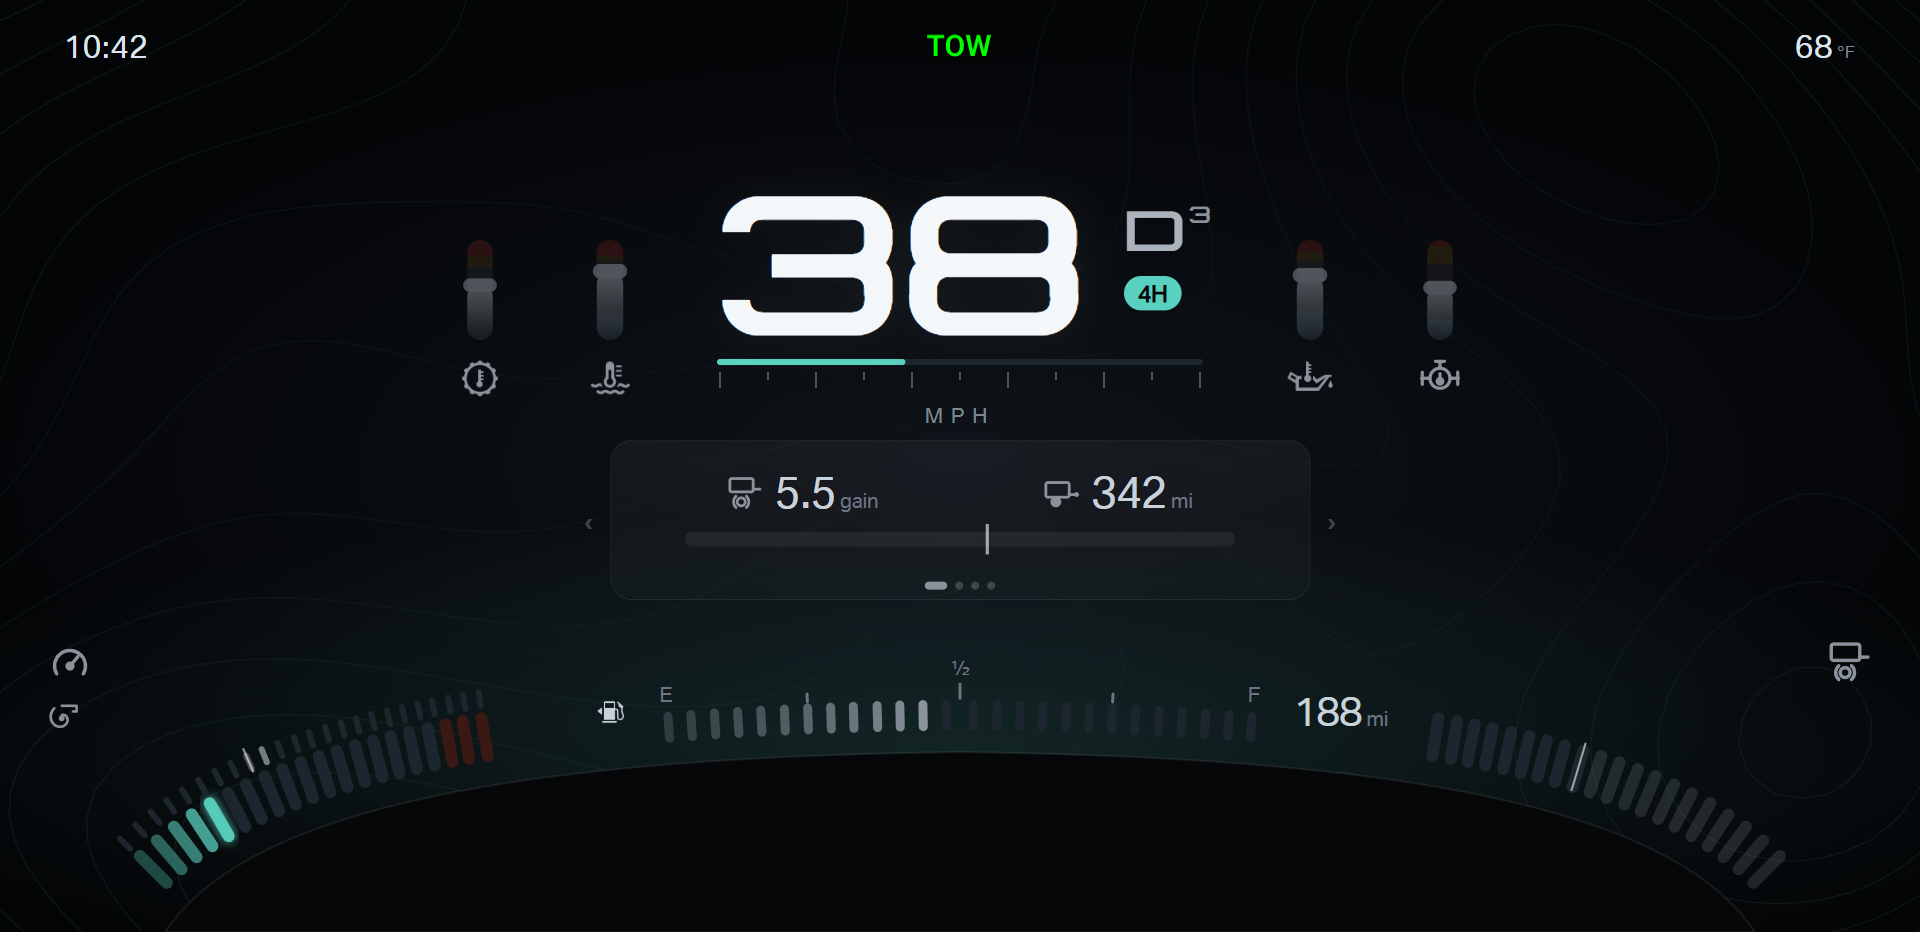
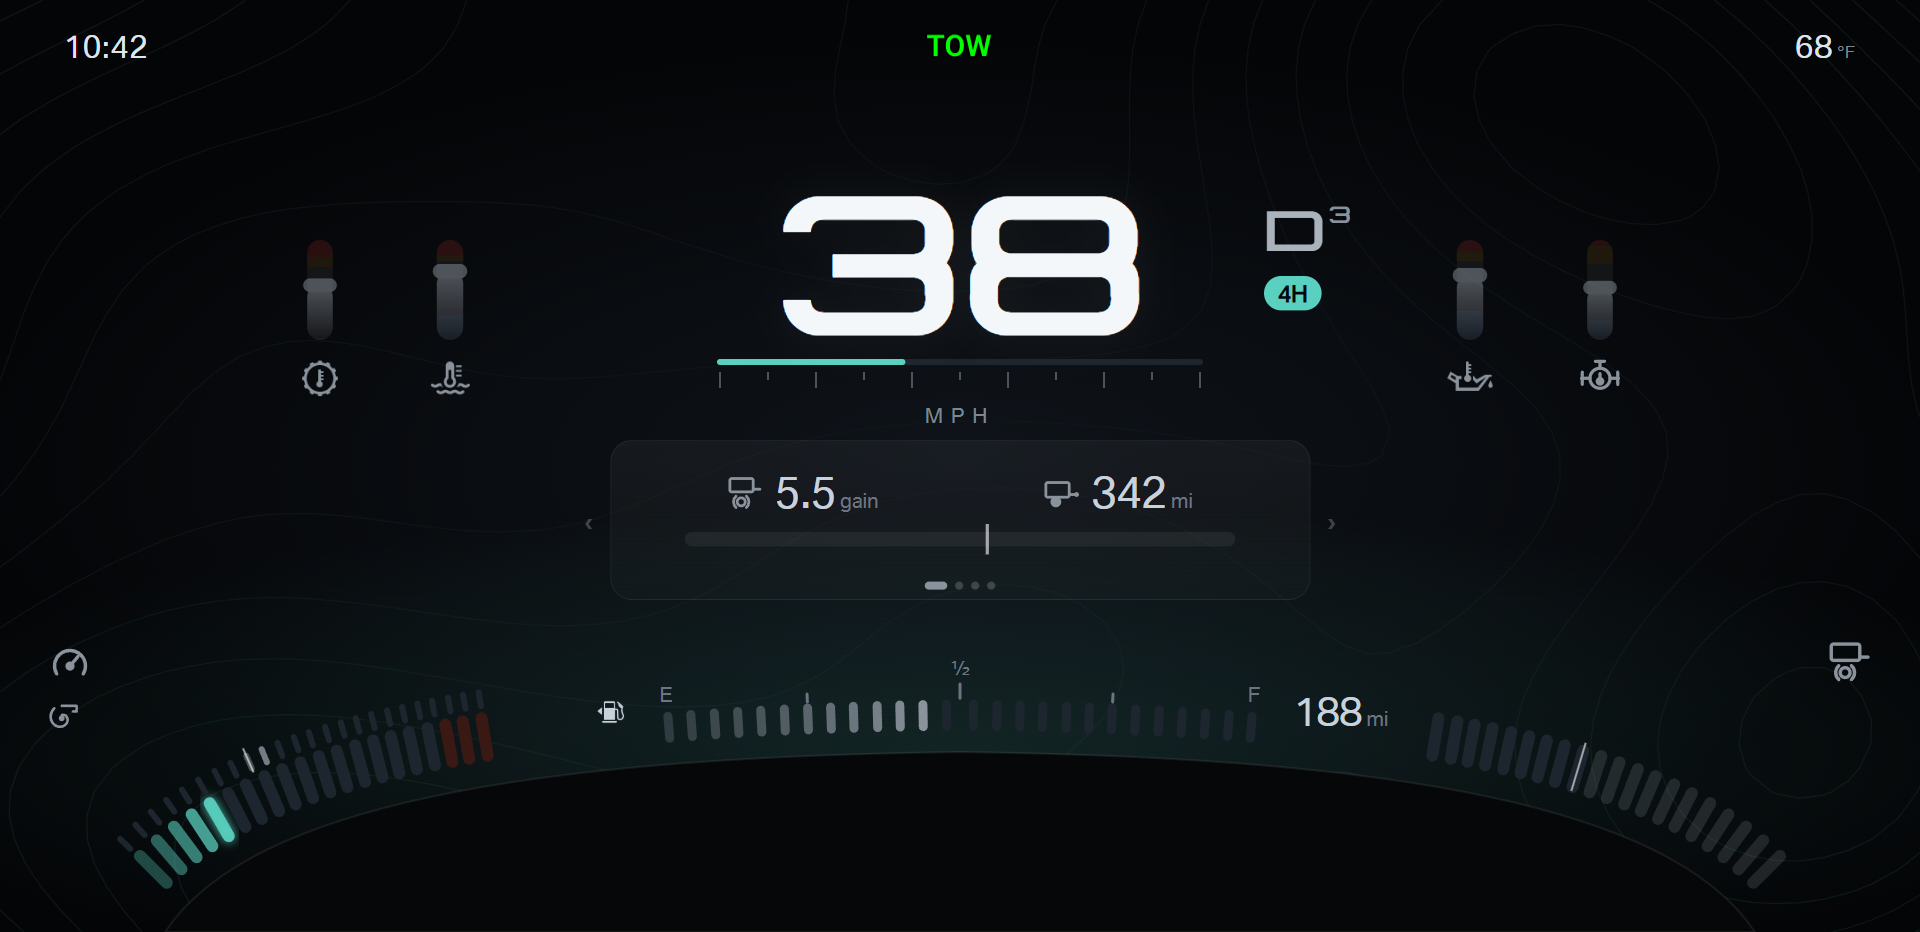
Center the speed digits on the round 19 Towing A layouts
The speed centers on x 960 for one, two, and three digits. The gear and
the temperature bars move outside the three-digit width, and a 104 mph
scene checks the widest readout.

diff --git a/design/round-19/index.html b/design/round-19/index.html
@@ -21,6 +21,7 @@
   <li>Drive mode: the chip under the gear. 2H is a grey outline; 4A, 4H, and 4L fill. The rear locker adds an amber chip with a padlock. Field: getGearAwd() (mFord4wd); rear locker: alarmTable[76], pending verification on the truck.</li>
   <li>Cruise: the stock readout at top center, above the speed. The cruise symbol and the set speed only (no SET, ACC, or MPH text); the limiter keeps the LIM tag.
     The set speed also shows as a mark on the speed scale: green for cruise and adaptive cruise, white for the limiter. An alert banner covers the readout; the mark stays.</li>
+  <li>Speed digits center on the center line. The gear and the temperature bars sit outside the width of three digits, so one, two, and three digits all stay centered and nothing else moves.</li>
   <li>Speed scale: 0 to 100 mph under the speed digits, filled in the accent colour, with no numbers (the digits carry the number). MPH moves under the scale.</li>
   <li>A · Ruler: a straight bar with ticks every 10 mph. B · Arch: segments on an arch that echoes the shroud and the corner bands.</li>
 </ul>
@@ -35,6 +36,7 @@
   <div><h3>4L on a 12 % grade: the panel jumps to engine</h3><a href="tow-a.html?scene=d4l"><img src="shots/tow-a-d4l.png" alt=""></a></div>
   <div><h3>4L and the rear locker</h3><a href="tow-a.html?scene=locker"><img src="shots/tow-a-locker.png" alt=""></a></div>
   <div><h3>cruise set during an alert: the banner covers the readout; the mark stays</h3><a href="tow-a.html?scene=alertcruise"><img src="shots/tow-a-alert.png" alt=""></a></div>
+  <div><h3>three digits: the widest speed (width check)</h3><a href="tow-a.html?scene=fast"><img src="shots/tow-a-fast.png" alt=""></a></div>
   <div><h3>true size</h3><a href="tow-a.html?view=physical&amp;ruler=1"><img src="shots/tow-a-physical.png" alt=""></a></div>
 </div>
 <h2>B · Arch</h2>
@@ -48,6 +50,7 @@
   <div><h3>4L on a 12 % grade: the panel jumps to engine</h3><a href="tow-b.html?scene=d4l"><img src="shots/tow-b-d4l.png" alt=""></a></div>
   <div><h3>4L and the rear locker</h3><a href="tow-b.html?scene=locker"><img src="shots/tow-b-locker.png" alt=""></a></div>
   <div><h3>cruise set during an alert: the banner covers the readout; the mark stays</h3><a href="tow-b.html?scene=alertcruise"><img src="shots/tow-b-alert.png" alt=""></a></div>
+  <div><h3>three digits: the widest speed (width check)</h3><a href="tow-b.html?scene=fast"><img src="shots/tow-b-fast.png" alt=""></a></div>
   <div><h3>true size</h3><a href="tow-b.html?view=physical&amp;ruler=1"><img src="shots/tow-b-physical.png" alt=""></a></div>
 </div>
 </body>

diff --git a/design/round-19/tow-b.html b/design/round-19/tow-b.html
@@ -19,9 +19,9 @@
 <link rel="stylesheet" href="../round-18/kit18.css">
 <link rel="stylesheet" href="kit19.css">
 <style>
-  .speed { right: 836px; top: 156px; text-align: right; font-size: 210px; letter-spacing: -4px; }
+  .speed { left: 960px; top: 156px; transform: translateX(-50%); text-align: center; font-size: 210px; letter-spacing: -4px; }
   .sunit { left: 960px; top: 404px; transform: translateX(-50%); font: var(--small) "BMW Type Global"; letter-spacing: 8px; color: var(--sub); }
-  .gblk { left: 1124px; top: 200px; display: flex; flex-direction: column; align-items: flex-start; gap: 16px; }
+  .gblk { left: 1264px; top: 200px; display: flex; flex-direction: column; align-items: flex-start; gap: 16px; }
   .state { font: 600 var(--small) "BMW Type Global"; letter-spacing: 4px; color: var(--accent); }
   .tp { column-gap: 40px; }
 </style>
@@ -48,6 +48,8 @@
 // Speed scale: a segment arch that echoes the shroud under the speed digits, 0 to 100 mph, with the cruise set speed as a mark.
 // Drive mode: the chip under the gear (2H outline; 4A, 4H, 4L filled) and an amber padlock chip for the rear locker.
 // Cruise: the stock readout at top center, above the speed, shows the cruise symbol and the set speed only.
+// Speed digits center on x 960. The gear and the temperature bars sit outside the width of three digits (x 688 to 1232),
+// so one, two, and three digits all stay centered and nothing moves.
 const s = state("tow"), F = focusOf(s);
 if (params.has("cruise")) s.cruise = params.get("cruise");
 const allT = F === "temps" || F === "warmup";
@@ -63,8 +65,8 @@ place(`
   <div class="abs big speed" data-field="speed">${digits(s.speed)}</div>
   <div class="abs sunit" data-field="vehicleSpeedUnit">MPH</div>
   <div class="abs gblk">${gear(s, GEAR_SIZE)}<div class="drow">${driveChip(s)}</div></div>
-  ${tBarsK(s, ["trans", "coolant"], allT, "left:430px;top:186px;width:230px")}
-  ${tBarsK(s, ["oil", "diff"], allT, "left:1260px;top:186px;width:230px")}
+  ${tBarsK(s, ["trans", "coolant"], allT, "left:270px;top:186px;width:230px")}
+  ${tBarsK(s, ["oil", "diff"], allT, "left:1420px;top:186px;width:230px")}
   ${secPanel(s, F, PANEL_C)}
   ${engineMarks("left:48px;top:640px")}
   <div class="abs corner r ${s.braking ? "on" : "idle"}" style="right:48px;top:640px" data-field="${BRAKE_FIELD}"><span class="k">${s.braking ? `<span class="state">BRAKING</span>` : ""}${sym("trailerBrake", 44)}</span></div>

diff --git a/design/round-19/tow-a.html b/design/round-19/tow-a.html
@@ -19,9 +19,9 @@
 <link rel="stylesheet" href="../round-18/kit18.css">
 <link rel="stylesheet" href="kit19.css">
 <style>
-  .speed { right: 836px; top: 156px; text-align: right; font-size: 210px; letter-spacing: -4px; }
+  .speed { left: 960px; top: 156px; transform: translateX(-50%); text-align: center; font-size: 210px; letter-spacing: -4px; }
   .sunit { left: 960px; top: 404px; transform: translateX(-50%); font: var(--small) "BMW Type Global"; letter-spacing: 8px; color: var(--sub); }
-  .gblk { left: 1124px; top: 200px; display: flex; flex-direction: column; align-items: flex-start; gap: 16px; }
+  .gblk { left: 1264px; top: 200px; display: flex; flex-direction: column; align-items: flex-start; gap: 16px; }
   .state { font: 600 var(--small) "BMW Type Global"; letter-spacing: 4px; color: var(--accent); }
   .tp { column-gap: 40px; }
 </style>
@@ -48,6 +48,8 @@
 // Speed scale: a straight ruler under the speed digits, 0 to 100 mph, with the cruise set speed as a mark.
 // Drive mode: the chip under the gear (2H outline; 4A, 4H, 4L filled) and an amber padlock chip for the rear locker.
 // Cruise: the stock readout at top center, above the speed, shows the cruise symbol and the set speed only.
+// Speed digits center on x 960. The gear and the temperature bars sit outside the width of three digits (x 688 to 1232),
+// so one, two, and three digits all stay centered and nothing moves.
 const s = state("tow"), F = focusOf(s);
 if (params.has("cruise")) s.cruise = params.get("cruise");
 const allT = F === "temps" || F === "warmup";
@@ -63,8 +65,8 @@ place(`
   <div class="abs big speed" data-field="speed">${digits(s.speed)}</div>
   <div class="abs sunit" data-field="vehicleSpeedUnit">MPH</div>
   <div class="abs gblk">${gear(s, GEAR_SIZE)}<div class="drow">${driveChip(s)}</div></div>
-  ${tBarsK(s, ["trans", "coolant"], allT, "left:430px;top:186px;width:230px")}
-  ${tBarsK(s, ["oil", "diff"], allT, "left:1260px;top:186px;width:230px")}
+  ${tBarsK(s, ["trans", "coolant"], allT, "left:270px;top:186px;width:230px")}
+  ${tBarsK(s, ["oil", "diff"], allT, "left:1420px;top:186px;width:230px")}
   ${secPanel(s, F, PANEL_C)}
   ${engineMarks("left:48px;top:640px")}
   <div class="abs corner r ${s.braking ? "on" : "idle"}" style="right:48px;top:640px" data-field="${BRAKE_FIELD}"><span class="k">${s.braking ? `<span class="state">BRAKING</span>` : ""}${sym("trailerBrake", 44)}</span></div>

diff --git a/design/round-19/kit19.js b/design/round-19/kit19.js
@@ -8,6 +8,8 @@ SCENES.d4l = s => Object.assign(s, { drive: "4L", speed: 6, gearNum: 1, rpm: 140
 SCENES.locker = s => Object.assign(SCENES.d4l(s), { locker: true });
 // Cruise set during an alert: the alert banner covers the cruise readout; the set-speed mark stays on the speed scale.
 SCENES.alertcruise = s => Object.assign(SCENES.hottrans(s), { cruise: "set" });
+// Width check: three speed digits, the widest speed readout.
+SCENES.fast = s => Object.assign(s, { speed: 104, rpm: 3100 });
 
 // Drive chip: 2H is the quiet outline chip. 4A, 4H, and 4L fill (kit8). The rear locker adds an amber chip with a padlock.
 SYM.padlock = `<rect x="13" y="24" width="28" height="22" rx="4" fill="#000"/><path d="M19 24v-6a8 8 0 0 1 16 0v6"/>`;

diff --git a/design/round-19/capture.js b/design/round-19/capture.js
@@ -14,7 +14,7 @@ async (page) => {
     await page.evaluate(() => document.fonts.ready);
   };
   const shots = [["normal", "scene=normal"], ["set", "scene=cruise"], ["acc", "scene=cruise&cruise=acc"], ["lim", "scene=normal&cruise=lim"],
-    ["d4a", "scene=d4a"], ["d4h", "scene=d4h"], ["d4l", "scene=d4l"], ["locker", "scene=locker"], ["alert", "scene=alertcruise"]];
+    ["d4a", "scene=d4a"], ["d4h", "scene=d4h"], ["d4l", "scene=d4l"], ["locker", "scene=locker"], ["alert", "scene=alertcruise"], ["fast", "scene=fast"]];
   for (const name of ["tow-a", "tow-b"]) {
     for (const [tag, q] of shots) {
       await open(`round-19/${name}.html?${q}&still=1`, 1920, 932);
